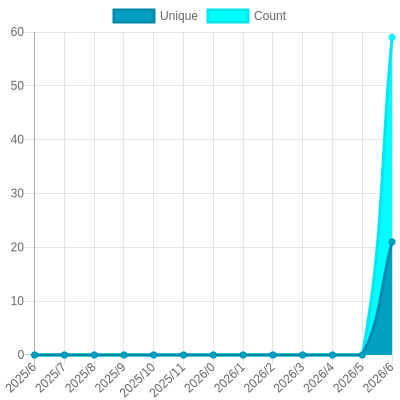
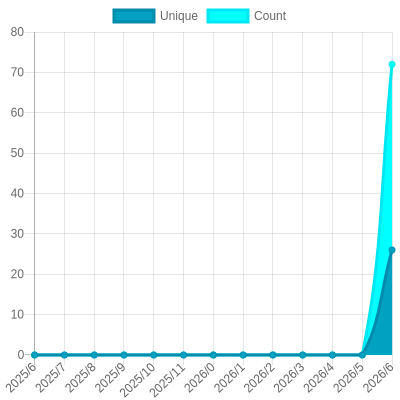
Update views

diff --git a/readme/1025119047/year.md b/readme/1025119047/year.md
@@ -23,10 +23,10 @@
 			<code>2025/7/1</code>
 		</td>
 		<td>
-			<code>21</code>
+			<code>26</code>
 		</td>
 		<td>
-			<code>59</code>
+			<code>72</code>
 		</td>
 	</tr>
 	<tr>
@@ -164,7 +164,7 @@
 </table>
 
 </details>
-<small><i>Last updated on 2025/7/31 12:33 PM UTC</i></small>
+<small><i>Last updated on 2025/7/31 6:25 PM UTC</i></small>
 
 ## ✂Copy and 📋 Paste
 ### SVG Badge

diff --git a/README.md b/README.md
@@ -197,7 +197,7 @@ The project created and maintained by [gayanvoice](https://github.com/gayanvoice
 	</tr>
 </table>
 
-<small><i>Last updated on 2025/7/31 12:34 PM UTC</i></small>
+<small><i>Last updated on 2025/7/31 6:25 PM UTC</i></small>
 
 ## ✂Copy and 📋 Paste
 ### Total Views Badge

diff --git a/readme/755386523/year.md b/readme/755386523/year.md
@@ -164,7 +164,7 @@
 </table>
 
 </details>
-<small><i>Last updated on 2025/7/31 12:33 PM UTC</i></small>
+<small><i>Last updated on 2025/7/31 6:24 PM UTC</i></small>
 
 ## ✂Copy and 📋 Paste
 ### SVG Badge

diff --git a/readme/777939785/year.md b/readme/777939785/year.md
@@ -164,7 +164,7 @@
 </table>
 
 </details>
-<small><i>Last updated on 2025/7/31 12:33 PM UTC</i></small>
+<small><i>Last updated on 2025/7/31 6:24 PM UTC</i></small>
 
 ## ✂Copy and 📋 Paste
 ### SVG Badge

diff --git a/readme/816065386/year.md b/readme/816065386/year.md
@@ -164,7 +164,7 @@
 </table>
 
 </details>
-<small><i>Last updated on 2025/7/31 12:33 PM UTC</i></small>
+<small><i>Last updated on 2025/7/31 6:24 PM UTC</i></small>
 
 ## ✂Copy and 📋 Paste
 ### SVG Badge

diff --git a/readme/816072591/year.md b/readme/816072591/year.md
@@ -164,7 +164,7 @@
 </table>
 
 </details>
-<small><i>Last updated on 2025/7/31 12:33 PM UTC</i></small>
+<small><i>Last updated on 2025/7/31 6:24 PM UTC</i></small>
 
 ## ✂Copy and 📋 Paste
 ### SVG Badge

diff --git a/readme/952027651/year.md b/readme/952027651/year.md
@@ -164,7 +164,7 @@
 </table>
 
 </details>
-<small><i>Last updated on 2025/7/31 12:33 PM UTC</i></small>
+<small><i>Last updated on 2025/7/31 6:24 PM UTC</i></small>
 
 ## ✂Copy and 📋 Paste
 ### SVG Badge

diff --git a/readme/953493884/year.md b/readme/953493884/year.md
@@ -164,7 +164,7 @@
 </table>
 
 </details>
-<small><i>Last updated on 2025/7/31 12:33 PM UTC</i></small>
+<small><i>Last updated on 2025/7/31 6:25 PM UTC</i></small>
 
 ## ✂Copy and 📋 Paste
 ### SVG Badge

diff --git a/readme/953498133/year.md b/readme/953498133/year.md
@@ -164,7 +164,7 @@
 </table>
 
 </details>
-<small><i>Last updated on 2025/7/31 12:32 PM UTC</i></small>
+<small><i>Last updated on 2025/7/31 6:24 PM UTC</i></small>
 
 ## ✂Copy and 📋 Paste
 ### SVG Badge

diff --git a/readme/953997944/year.md b/readme/953997944/year.md
@@ -164,7 +164,7 @@
 </table>
 
 </details>
-<small><i>Last updated on 2025/7/31 12:32 PM UTC</i></small>
+<small><i>Last updated on 2025/7/31 6:24 PM UTC</i></small>
 
 ## ✂Copy and 📋 Paste
 ### SVG Badge

diff --git a/readme/954031080/year.md b/readme/954031080/year.md
@@ -164,7 +164,7 @@
 </table>
 
 </details>
-<small><i>Last updated on 2025/7/31 12:33 PM UTC</i></small>
+<small><i>Last updated on 2025/7/31 6:25 PM UTC</i></small>
 
 ## ✂Copy and 📋 Paste
 ### SVG Badge

diff --git a/readme/955546787/year.md b/readme/955546787/year.md
@@ -164,7 +164,7 @@
 </table>
 
 </details>
-<small><i>Last updated on 2025/7/31 12:34 PM UTC</i></small>
+<small><i>Last updated on 2025/7/31 6:25 PM UTC</i></small>
 
 ## ✂Copy and 📋 Paste
 ### SVG Badge
